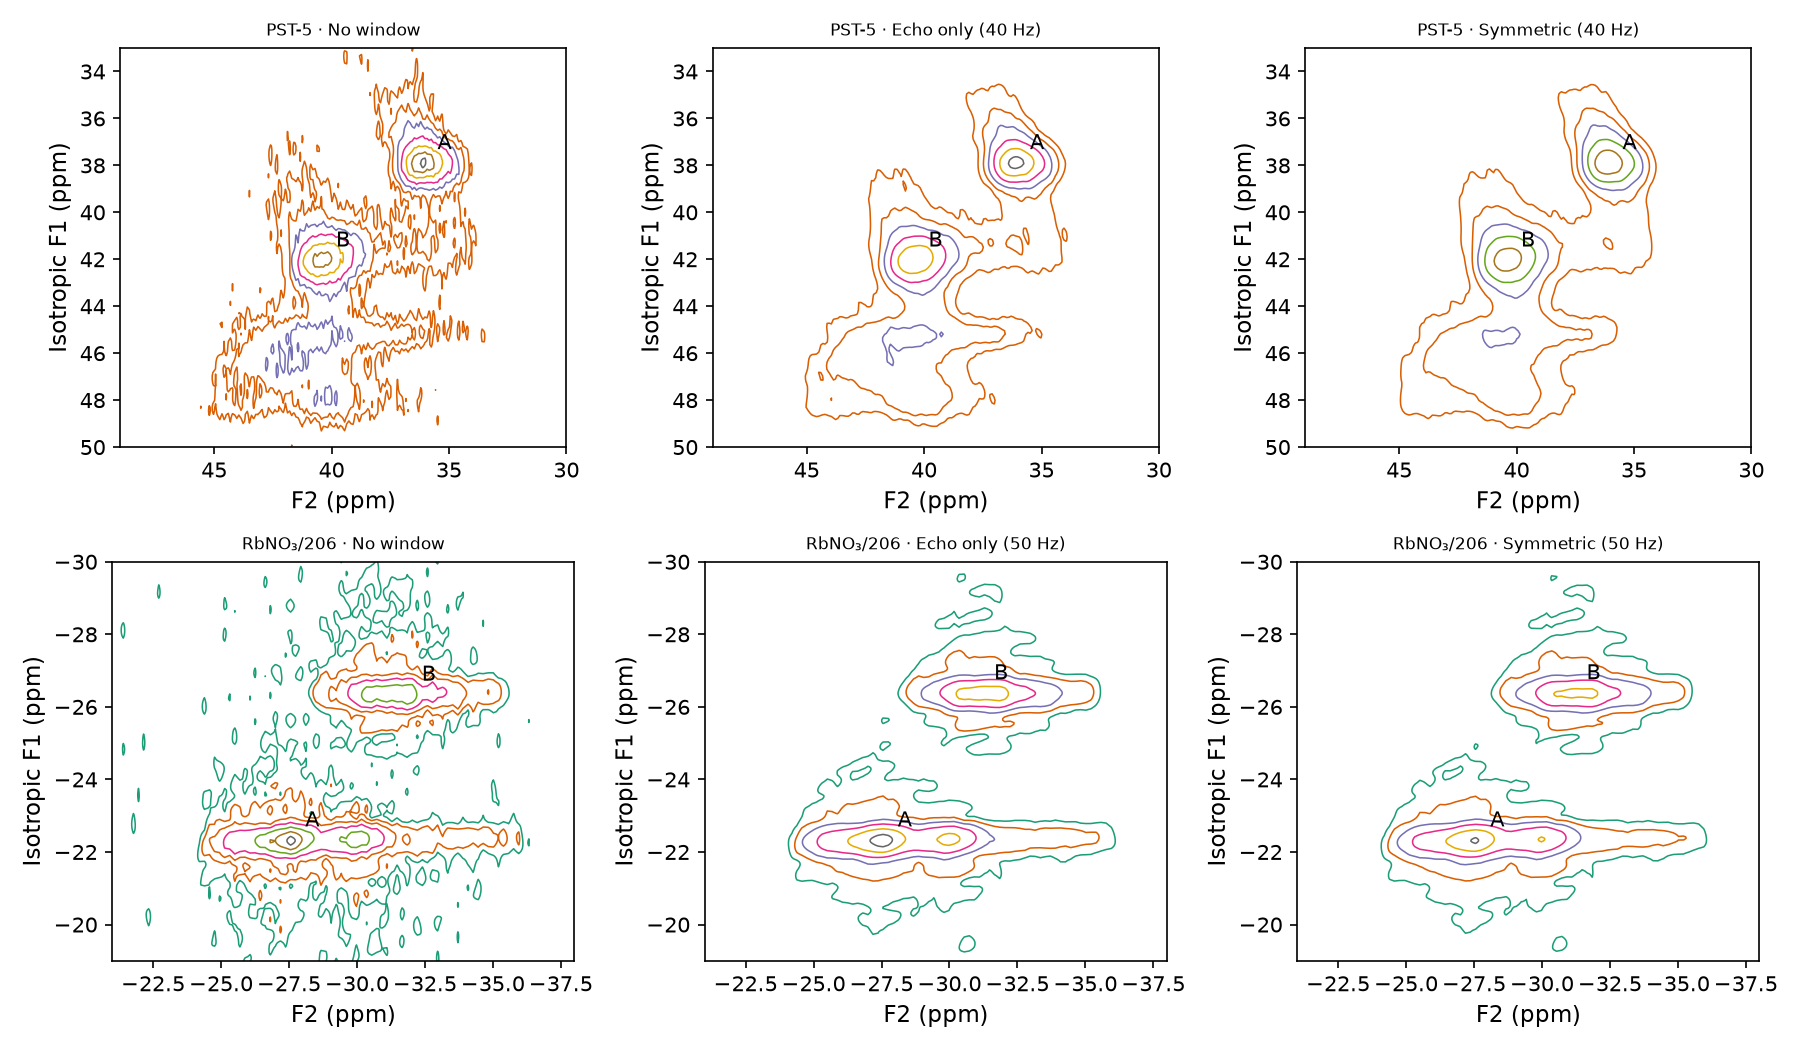
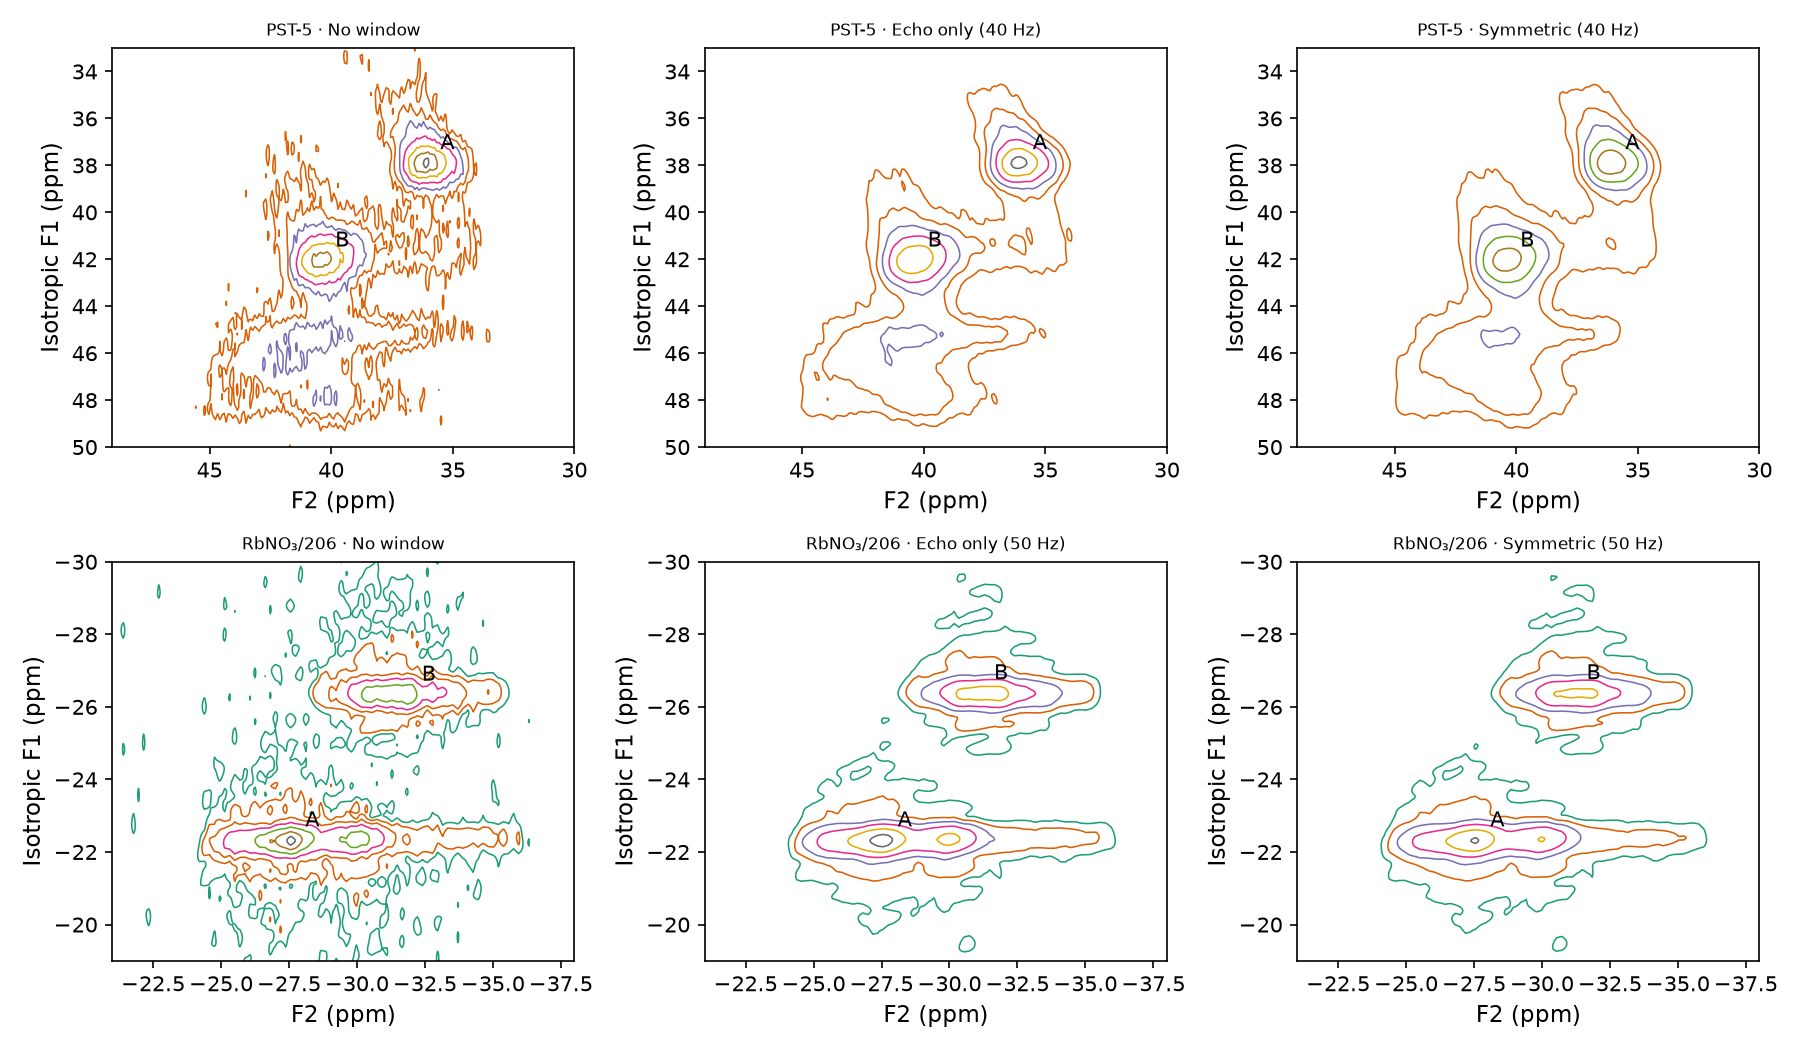
DOC: preserve MQMAS panel aspect and PULSAR sample coordinates

diff --git a/examples/processing/nmr/plot_rbno3_mqmas_multiplex.py b/examples/processing/nmr/plot_rbno3_mqmas_multiplex.py
@@ -208,6 +208,7 @@ if data_root:
         labels=[title for title, _ in panels],
         ncol=3,
         method="contour",
+        equal_aspect=False,
         figsize=(12, 4),
         levels=[0.10, 0.18, 0.30, 0.50, 0.70, 0.90],
         xlabel="F2 (ppm)",
@@ -394,6 +395,7 @@ def compare_mqecho(root):
         nrow=2,
         ncol=3,
         method="contour",
+        equal_aspect=False,
         figsize=(12, 7),
         levels=[0.08, 0.15, 0.25, 0.4, 0.6, 0.8, 0.95],
         xlabel="F2 (ppm)",

diff --git a/examples/simulation/plot_fit_central_transition.py b/examples/simulation/plot_fit_central_transition.py
@@ -38,7 +38,8 @@ def central_transition(x, ampl, cq, eta, shift, fwhm):
     )
     spectrum = pulsar.broaden(spectrum, gaussian_fwhm_hz=fwhm)
     spectrum.set_coordset(x=spectrum.x + (step_hz / 2) * scp.ur.Hz)
-    return ampl * spectrum.interpolate(coord=x, fill_value=0).data
+    target = scp.Coord(x, units="Hz", rounding=False)
+    return ampl * spectrum.interpolate(coord=target, fill_value=0).data
 
 
 fit = scp.Optimize(
